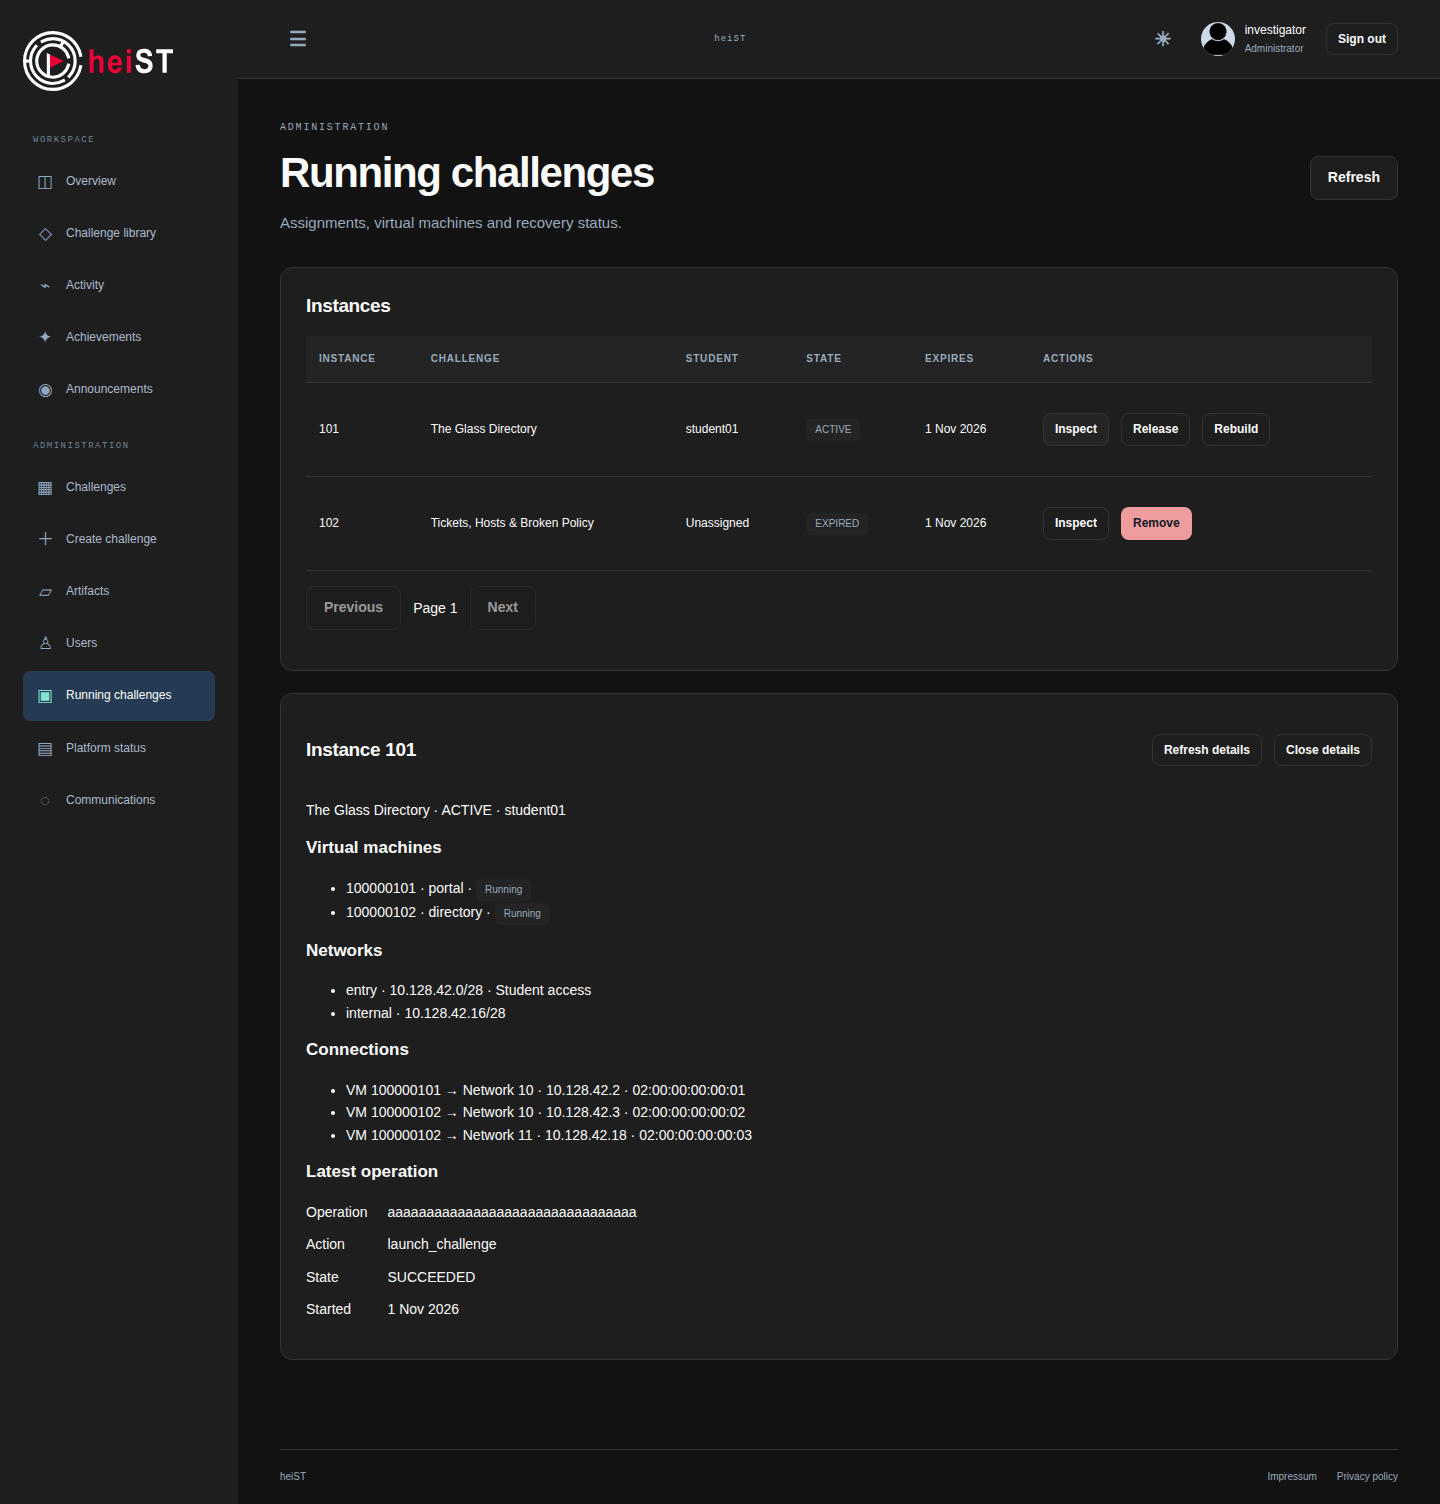
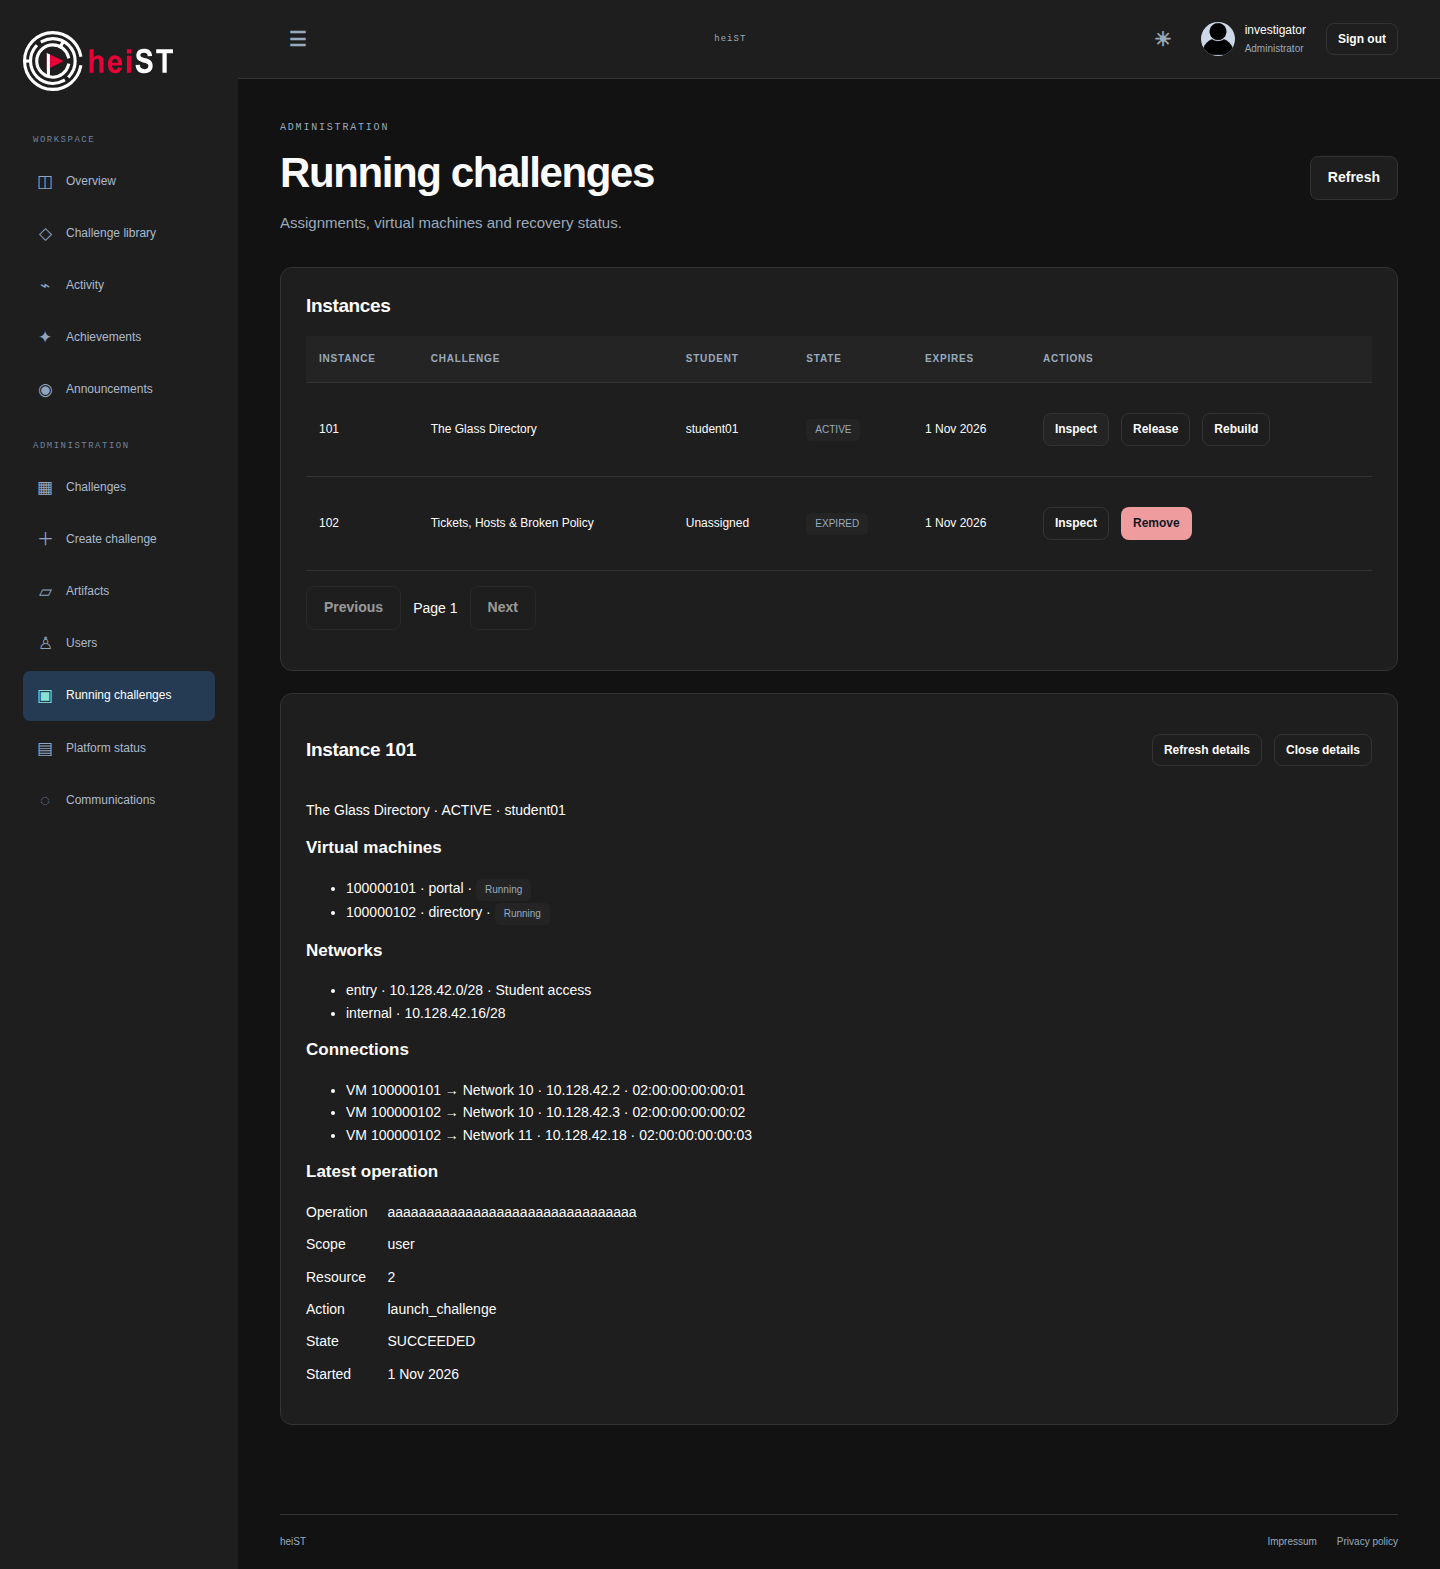
Expose recovery identities and populate complete editor documentation captures

diff --git a/frontend/src/features/administration/UserManagementPage.tsx b/frontend/src/features/administration/UserManagementPage.tsx
@@ -63,6 +63,7 @@ export function ManageUsers() {
                   <td>
                     <Link href={'/profile/' + encodeURIComponent(text(user.username))}><strong>{text(user.username)}</strong></Link>
                     <small className="muted account-email">{text(user.email)}</small>
+                    <small className="muted account-email">ID {number(user.id)}{user.vpn_ip ? ` · VPN ${text(user.vpn_ip)}` : ''}</small>
                   </td>
                   <td>
                     <Badge>{truth(user.is_admin) ? 'Administrator' : 'Student'}</Badge>
@@ -72,7 +73,7 @@ export function ManageUsers() {
                     {number(user.sessions)}
                     {Boolean(operation.state) && <details>
                       <summary>Operation: {text(operation.state)}</summary>
-                      <p className="prose">{text(operation.action)} · {text(operation.id)}</p>
+                      <p className="prose">{text(operation.action)} · {text(operation.id)}<br />Scope: {text(operation.scope)} · Resource: {number(operation.resource)}</p>
                     </details>}
                   </td>
                   <td>{user.running_challenge ? number(user.running_challenge) : '—'}</td>

diff --git a/frontend/src/features/administration/InstanceManagementPage.tsx b/frontend/src/features/administration/InstanceManagementPage.tsx
@@ -104,6 +104,8 @@ function InstanceDetails({ identifier, onClose }: { identifier: number; onClose:
       <h3>Latest operation</h3>
       {operation.id ? <dl className="diagnostic-grid">
         <dt>Operation</dt><dd>{text(operation.id)}</dd>
+        <dt>Scope</dt><dd>{text(operation.scope)}</dd>
+        <dt>Resource</dt><dd>{number(operation.resource)}</dd>
         <dt>Action</dt><dd>{text(operation.action)}</dd>
         <dt>State</dt><dd>{text(operation.state)}</dd>
         <dt>Started</dt><dd>{date(operation.started)}</dd>

diff --git a/tests/browser/showcase_data.py b/tests/browser/showcase_data.py
@@ -23,9 +23,9 @@ def responses():
         'badges': data({'stats':{'earned':4,'total':9},'badges':[{'id':i+1,'name':name,'description':description,'earned':i<4} for i,(name,description) in enumerate([('Web Warrior','Solve five web challenges.'),('Crypto Expert','Solve five cryptography challenges.'),('Reverse Engineer','Solve five reverse engineering challenges.'),('Forensic Analyst','Solve five forensic challenges.'),('Binary Buster','Solve five binary exploitation challenges.'),('Puzzle Master','Solve five miscellaneous challenges.'),('First Blood','Be the first to complete a challenge.'),('Speed Runner','Complete a challenge in five minutes.'),('Master Hacker','Earn the other achievements.')])]}),
         'announcements': data({'announcements':[{'id':1,'title':'Lecture exercises','content':'Exercises are available in the challenge library. Keep notes about your investigation and submit the flags you find.','short_description':'The identity lab is available.','category':'events','importance':'normal','created_at':'2026-11-01T09:00:00Z'}],'total':1}),
         'admin/announcements':data({'announcements':[{'id':1,'title':'Lecture exercises','content':'Exercises are available in the challenge library.','short_description':'The identity lab is available.','category':'events','importance':'normal','created_at':'2026-11-01T09:00:00Z'}],'total':1}),
-        'admin/users':data({'users':[{'id':1,'username':'investigator','email':'investigator@example.invalid','is_admin':True,'sessions':1,'last_login':'2026-11-01T10:00:00Z'},{'id':2,'username':'student01','email':'student01@example.invalid','is_admin':False,'sessions':2,'running_challenge':101,'last_login':'2026-11-01T09:30:00Z'}],'page':1,'has_more':False}),
+        'admin/users':data({'users':[{'id':1,'username':'investigator','email':'investigator@example.invalid','is_admin':True,'sessions':1,'last_login':'2026-11-01T10:00:00Z'},{'id':2,'username':'student01','email':'student01@example.invalid','is_admin':False,'sessions':2,'vpn_ip':'10.64.0.3','running_challenge':101,'last_login':'2026-11-01T09:30:00Z'}],'page':1,'has_more':False}),
         'admin/instances':data({'instances':[{'id':101,'name':'The Glass Directory','state':'ACTIVE','user_id':2,'username':'student01','expires_at':'2026-11-01T11:00:00Z','machines':2},{'id':102,'name':'Tickets, Hosts & Broken Policy','state':'EXPIRED','expires_at':'2026-11-01T09:30:00Z'}],'page':1,'has_more':False}),
-        'admin/instances/101':data({'id':101,'name':'The Glass Directory','state':'ACTIVE','username':'student01','machines':[{'id':100000101,'name':'portal','status':'running'},{'id':100000102,'name':'directory','status':'running'}],'networks':[{'id':10,'name':'entry','subnet':'10.128.42.0/28','accessible':True,'is_dmz':False},{'id':11,'name':'internal','subnet':'10.128.42.16/28','accessible':False,'is_dmz':False}],'connections':[{'machine_id':100000101,'network_id':10,'address':'10.128.42.2','mac':'02:00:00:00:00:01'},{'machine_id':100000102,'network_id':10,'address':'10.128.42.3','mac':'02:00:00:00:00:02'},{'machine_id':100000102,'network_id':11,'address':'10.128.42.18','mac':'02:00:00:00:00:03'}],'operation':{'id':'a'*32,'action':'launch_challenge','state':'SUCCEEDED','started':'2026-11-01T10:00:00Z'}}),
+        'admin/instances/101':data({'id':101,'name':'The Glass Directory','state':'ACTIVE','username':'student01','machines':[{'id':100000101,'name':'portal','status':'running'},{'id':100000102,'name':'directory','status':'running'}],'networks':[{'id':10,'name':'entry','subnet':'10.128.42.0/28','accessible':True,'is_dmz':False},{'id':11,'name':'internal','subnet':'10.128.42.16/28','accessible':False,'is_dmz':False}],'connections':[{'machine_id':100000101,'network_id':10,'address':'10.128.42.2','mac':'02:00:00:00:00:01'},{'machine_id':100000102,'network_id':10,'address':'10.128.42.3','mac':'02:00:00:00:00:02'},{'machine_id':100000102,'network_id':11,'address':'10.128.42.18','mac':'02:00:00:00:00:03'}],'operation':{'scope':'user','resource':2,'id':'a'*32,'action':'launch_challenge','state':'SUCCEEDED','started':'2026-11-01T10:00:00Z'}}),
         'admin/challenges': data({'challenges': challenges, 'stats': {'total_challenges': 3, 'active_challenges': 2, 'active_deployments': 5, 'total_deployments': 72, 'avg_completion_minutes': 48}}),
         'explore': data({'challenges': challenges[:2], 'pagination': {'total_pages': 1, 'total_items': 2}}),
         'dashboard': data({'user': {'username': 'investigator', 'points': 1250, 'rank': 4}, 'progress': {'solved': 5, 'success_rate': 83}, 'challenges': challenges[:2], 'activity': activity, 'timeline': {'labels': ['Mon', 'Tue', 'Wed', 'Thu', 'Fri'], 'points': [50, 150, 75, 200, 150]}}),
@@ -34,6 +34,6 @@ def responses():
         'profile': data({'basic': {'username': 'investigator', 'full_name': 'Alex Investigator', 'bio': 'Learning how identity, permissions and evidence fit together.'}, 'stats': {'points': 1250, 'solved': 5}, 'activity': activity}),
         'activity': data({'activities': activity}),
         'admin/artifacts': data({'ovas': [{'filename': 'identity-portal.ova', 'size': 1073741824, 'guest_os': 'linux'}], 'uploads': [], 'limits': {'MAX_FILE_SIZE': 10*1024**3, 'CHUNK_SIZE': 5}}),
-        'admin/challenges/options': {'success': True, 'ovas': [{'filename': 'identity-portal.ova'}]},
+        'admin/challenges/options': {'success': True, 'ovas': [{'filename': 'identity-portal.ova'},{'filename':'identity-directory.ova'}]},
         'admin/operations': data({'database': 'ready', 'maintenance': False, 'source_version': '0.3.0', 'services': [{'unit': 'backend.service', 'state': 'active', 'detail': 'running'}, {'unit': 'cleanup.service', 'state': 'active', 'detail': 'startup reconciliation complete'}, {'unit': 'pool_manager.service', 'state': 'active', 'detail': 'running'}], 'archive': {'status': 'success', 'last_success_at': '2026-11-01T10:00:00Z', 'counters': {'verified': 24, 'copied': 3}}, 'lifecycle': {'ACTIVE': 5, 'READY': 2}, 'release': {'version': '0.3.0'}, 'storage': {'used_percent': 32, 'free_bytes': 128*1024**3}, 'checked_at': '2026-11-01T10:05:00Z'}),
     }

diff --git a/tools/testing/screenshots.py b/tools/testing/screenshots.py
@@ -81,8 +81,12 @@ def capture(output):
                         machine = fixture.page.get_by_role('group', name='Machine 1', exact=True)
                         machine.get_by_label('Machine name').fill('portal')
                         machine.get_by_label('OVA artifact').select_option('identity-portal.ova')
+                        machine.get_by_label('Domain name').fill('portal.lab')
                         fixture.page.get_by_role('button', name='Add machine').click()
-                        fixture.page.get_by_role('group', name='Machine 2', exact=True).get_by_label('Machine name').fill('directory')
+                        directory=fixture.page.get_by_role('group',name='Machine 2',exact=True)
+                        directory.get_by_label('Machine name').fill('directory')
+                        directory.get_by_label('OVA artifact').select_option('identity-directory.ova')
+                        directory.get_by_label('Domain name').fill('directory.lab')
                         fixture.page.get_by_role('button', name='Add network').click()
                         fixture.page.get_by_label('Network name',exact=True).fill('Entry')
                         fixture.page.get_by_role('checkbox',name='portal',exact=True).check()
@@ -92,6 +96,11 @@ def capture(output):
                         internal.get_by_label('Network name',exact=True).fill('Internal')
                         internal.get_by_role('checkbox',name='Student accessible',exact=True).uncheck()
                         internal.get_by_role('checkbox',name='directory',exact=True).check()
+                        fixture.page.get_by_role('button',name='Add flag',exact=False).click()
+                        fixture.page.get_by_label('Flag value').fill('synthetic-documentation-flag')
+                        fixture.page.get_by_label('Flag description').fill('Find the identity permission boundary.')
+                        fixture.page.get_by_role('button',name='Add hint',exact=False).click()
+                        fixture.page.get_by_label('Hint text').fill('Compare the permissions on both networks.')
                     if name == 'instance_details':
                         fixture.page.get_by_role('row').filter(has_text='101').get_by_role('button',name='Inspect',exact=True).click()
                         fixture.page.get_by_role('heading',name='Latest operation',exact=True).wait_for()

diff --git a/tests/browser/ui_layout.py b/tests/browser/ui_layout.py
@@ -277,6 +277,9 @@ class LayoutTests(BrowserFixture):
         active=self.page.get_by_role('row').filter(has_text='student01')
         active.get_by_role('button',name='Inspect',exact=True).click()
         self.page.get_by_role('heading',name='Latest operation',exact=True).wait_for()
+        details=self.page.locator('.diagnostic-grid')
+        self.assertIn('user',details.inner_text())
+        self.assertEqual(details.get_by_text('2',exact=True).count(),1)
         active.get_by_role('button',name='Rebuild',exact=True).click()
         self.assertIn('All guest changes are lost',self.page.get_by_role('dialog').inner_text())
         self.page.get_by_role('button',name='Rebuild',exact=True).last.click()
